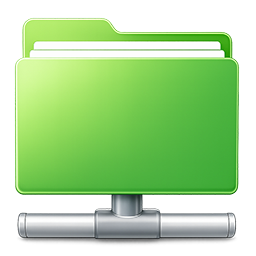
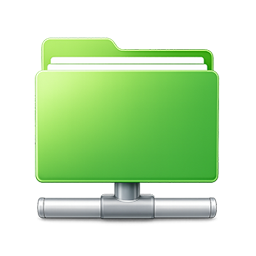
fix(settings): 阻止服务器卡片拖拽结束时误触选择
- 避免长按拖拽松手后触发卡片点击，防止意外切换当前服务器
- 在下一次指针按下时恢复卡片点击，确保正常点击行为不受影响
- 增加拖拽后服务器选择状态与排序结果的回归测试
- 更新服务器头像资源以保持界面展示一致性

diff --git a/lib/features/settings/server_selection_page.dart b/lib/features/settings/server_selection_page.dart
@@ -686,6 +686,7 @@ class _ServerStripState extends State<_ServerStrip> {
   int? _dragTargetIndex;
   var _actionAlignRight = false;
   var _actionShowAbove = false;
+  var _suppressCardTapUntilPointerDown = false;
 
   GlobalKey _cardKeyFor(String serverId) {
     return _cardKeys.putIfAbsent(serverId, GlobalKey.new);
@@ -746,8 +747,13 @@ class _ServerStripState extends State<_ServerStrip> {
     setState(() => _actionServerId = null);
   }
 
+  void _allowCardTapForNextPointer() {
+    _suppressCardTapUntilPointerDown = false;
+  }
+
   void _startLongPress(String serverId, LongPressStartDetails details) {
     if (!mounted || _draggingServerId != null) return;
+    _suppressCardTapUntilPointerDown = true;
     final cardRect = _globalRectFor(_cardKeyFor(serverId));
     final mediaQuery = MediaQuery.maybeOf(context);
     final viewportSize = mediaQuery?.size;
@@ -895,6 +901,7 @@ class _ServerStripState extends State<_ServerStrip> {
       onTap: feedback
           ? null
           : () {
+              if (_suppressCardTapUntilPointerDown) return;
               _dismissActions();
               widget.onSelect(server);
             },
@@ -906,6 +913,7 @@ class _ServerStripState extends State<_ServerStrip> {
         duration: const Duration(milliseconds: 120),
         opacity: isDragging ? 0.28 : 1,
         child: _ServerCardInteraction(
+          onPointerDown: _allowCardTapForNextPointer,
           showActions: _actionServerId == server.id,
           actionAlignRight: _actionAlignRight,
           actionShowAbove: _actionShowAbove,
@@ -1002,6 +1010,7 @@ class _ServerStripState extends State<_ServerStrip> {
 class _ServerCardInteraction extends StatefulWidget {
   const _ServerCardInteraction({
     required this.child,
+    required this.onPointerDown,
     required this.enabled,
     required this.showActions,
     required this.actionAlignRight,
@@ -1016,6 +1025,7 @@ class _ServerCardInteraction extends StatefulWidget {
   });
 
   final Widget child;
+  final VoidCallback onPointerDown;
   final bool enabled;
   final bool showActions;
   final bool actionAlignRight;
@@ -1070,15 +1080,20 @@ class _ServerCardInteractionState extends State<_ServerCardInteraction> {
             : null,
         child: CompositedTransformTarget(
           link: _layerLink,
-          child: GestureDetector(
-            behavior: HitTestBehavior.translucent,
-            onLongPressStart: widget.enabled ? widget.onLongPressStart : null,
-            onLongPressMoveUpdate: widget.enabled
-                ? widget.onLongPressMoveUpdate
-                : null,
-            onLongPressEnd: widget.enabled ? widget.onLongPressEnd : null,
-            onLongPressCancel: widget.enabled ? widget.onLongPressCancel : null,
-            child: widget.child,
+          child: Listener(
+            onPointerDown: (_) => widget.onPointerDown(),
+            child: GestureDetector(
+              behavior: HitTestBehavior.translucent,
+              onLongPressStart: widget.enabled ? widget.onLongPressStart : null,
+              onLongPressMoveUpdate: widget.enabled
+                  ? widget.onLongPressMoveUpdate
+                  : null,
+              onLongPressEnd: widget.enabled ? widget.onLongPressEnd : null,
+              onLongPressCancel: widget.enabled
+                  ? widget.onLongPressCancel
+                  : null,
+              child: widget.child,
+            ),
           ),
         ),
       ),

diff --git a/test/features/server_selection_page_test.dart b/test/features/server_selection_page_test.dart
@@ -577,6 +577,66 @@ void main() {
     expect(find.bySemanticsLabel('编辑服务器'), findsNothing);
   });
 
+  testWidgets('服务器卡片拖拽松手不会误选服务器', (tester) async {
+    SharedPreferences.setMockInitialValues({
+      'server.servers': jsonEncode([
+        for (var i = 0; i < 3; i++)
+          {
+            'id': 'server-$i',
+            'name': '服务器 $i',
+            'lines': [
+              {
+                'id': 'line-$i',
+                'name': '主线路',
+                'base_url': 'smb://server-$i/share',
+              },
+            ],
+            'active_line_id': 'line-$i',
+            'project_name': 'smb',
+          },
+      ]),
+      'server.active_server_id': 'server-2',
+    });
+    final prefs = await SharedPreferences.getInstance();
+
+    await tester.pumpWidget(
+      ProviderScope(
+        overrides: [sharedPrefsProvider.overrideWithValue(prefs)],
+        child: _testApp(const ServerSelectionPage()),
+      ),
+    );
+    await tester.pumpAndSettle();
+
+    final container = ProviderScope.containerOf(
+      tester.element(find.byType(ServerSelectionPage)),
+      listen: false,
+    );
+    final first = tester.getCenter(find.bySemanticsLabel('选择服务器 0'));
+    final second = tester.getCenter(find.bySemanticsLabel('选择服务器 1'));
+    final gesture = await tester.startGesture(first);
+    await tester.pump(kLongPressTimeout + const Duration(milliseconds: 50));
+    await gesture.moveTo(second);
+    await tester.pump();
+    await gesture.up();
+    await tester.pumpAndSettle();
+
+    expect(container.read(serverConfigProvider)?.activeServerId, 'server-2');
+    expect(
+      container.read(serverSwitchTransitionProvider).phase,
+      ServerSwitchPhase.idle,
+    );
+    final reordered = jsonDecode(prefs.getString('server.servers')!) as List;
+    expect(reordered.map((server) => server['id']), [
+      'server-1',
+      'server-0',
+      'server-2',
+    ]);
+
+    await tester.tap(find.bySemanticsLabel('选择服务器 0'));
+    await tester.pumpAndSettle();
+    expect(container.read(serverConfigProvider)?.activeServerId, 'server-0');
+  });
+
   testWidgets('悬浮操作显示后继续长按拖动仍可排序', (tester) async {
     SharedPreferences.setMockInitialValues({
       'server.servers': jsonEncode([
